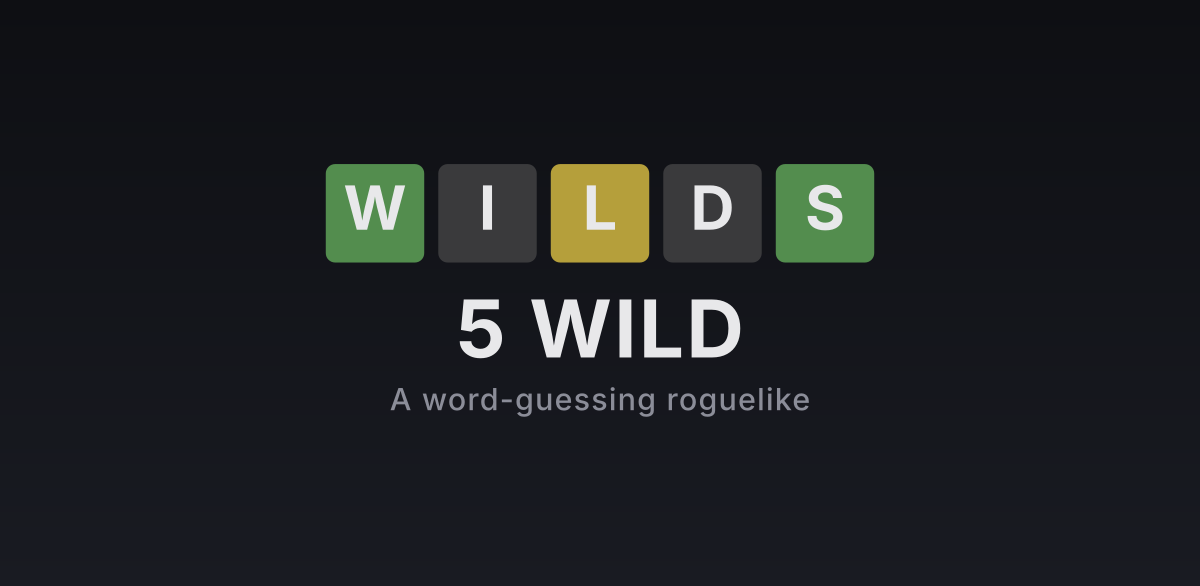
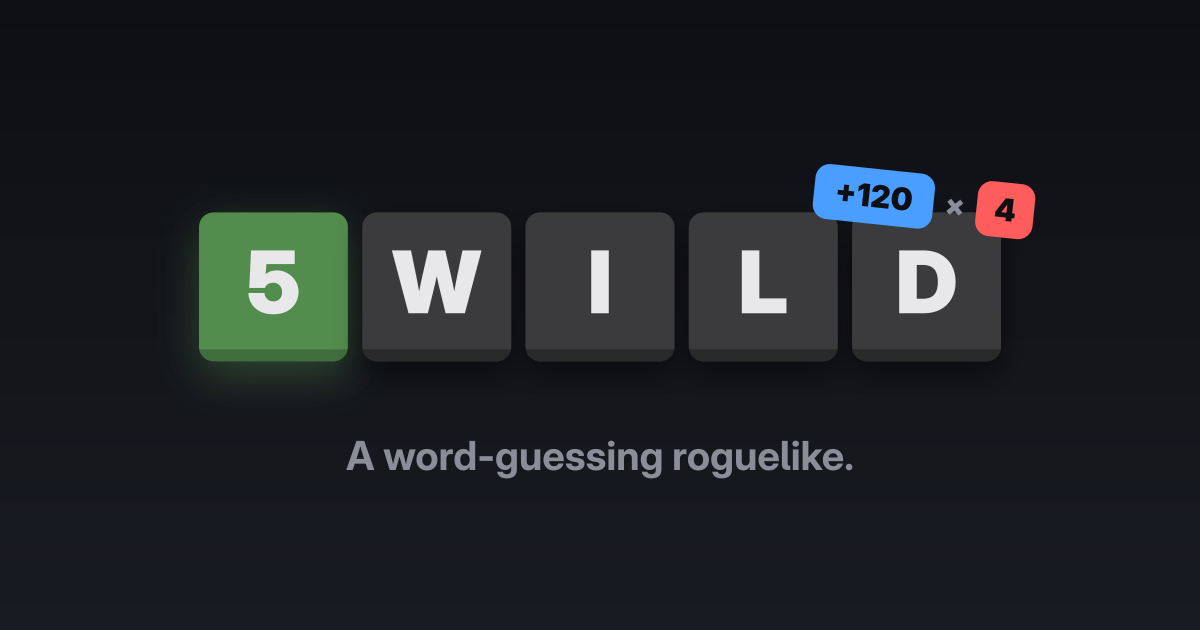
update branding

Changed region(s): [[0.1542, 0.2457, 0.8633, 0.6143], [0.2775, 0.6451, 0.7092, 0.7679]]

diff --git a/index.html b/index.html
@@ -32,7 +32,7 @@
     <meta property="og:image" content="https://5-wild.com/og.png" />
     <meta property="og:image:type" content="image/png" />
     <meta property="og:image:width" content="1200" />
-    <meta property="og:image:height" content="586" />
+    <meta property="og:image:height" content="630" />
     <meta property="og:image:alt" content="5 Wild: a word-guessing roguelike" />
     <meta name="twitter:card" content="summary_large_image" />
     <link rel="icon" href="./favicon.svg" type="image/svg+xml" />
